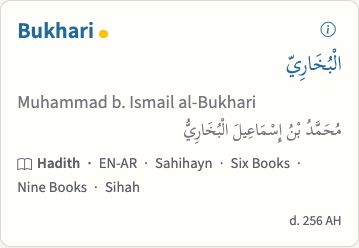
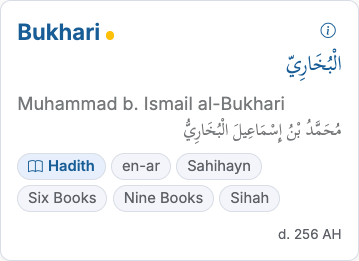
Restore rounded catalog pills and lowercase the bilingual badge

diff --git a/docs/design-system/library.html b/docs/design-system/library.html
@@ -27,7 +27,7 @@
   <section id="foundations"><h2>Foundations</h2>
     <div class="grid">
       <article><h3>Interface type</h3><div class="type-sample">Reading &amp; listening</div><label>Search settings <input type="search" placeholder="Search settings"></label><p>Inter is the proposed interface face. Its variable weights run from 100 (Thin) to 900 (Black). Use muted 300 for empty-field hints and the search launcher, 400 for entered text, and 700 for bold emphasis. Settings and Books share <code>ux-page-title</code>, which follows the responsive site heading scale at weight 650. Their titles measure 30.96 px at 1280 px and 25 px at 390 px with the default text size. Body text uses 1 rem with 1.5 line height. Use weight 600 for control labels.</p></article>
-      <article><h3>Color &amp; focus</h3><div class="palette"><span class="accent">Action</span><span class="text">Text</span><span class="muted">Summary</span><span class="inset">Inset</span></div><p>Lighter Ivory treatment (under review). Use a solid, near-neutral off-white canvas (#FAFAF9) throughout the page. White cards and Midnight headings keep text crisp. Use blue for the current collection and open settings panels. Use ink for text, blue for links and switches, and Midnight indigo for primary actions. Show a two-pixel accent outline on keyboard focus. <a href="../../public/static/css/ivory.css">Palette tokens</a>.</p></article>
+      <article><h3>Color &amp; focus</h3><div class="palette"><span class="accent">Action</span><span class="text">Text</span><span class="muted">Summary</span><span class="inset">Inset</span></div><p>Lighter Ivory canvas. Use a solid, near-neutral off-white canvas (#FAFAF9) throughout the page. White cards and Midnight headings keep text crisp. Use blue for the current collection and open settings panels. Use ink for text, blue for links and switches, and Midnight indigo for primary actions. Show a two-pixel accent outline on keyboard focus. <a href="../../public/static/css/ivory.css">Palette tokens</a>.</p></article>
     </div>
     <p>Load the <a href="../../public/static/css/ux-foundations.css">foundation stylesheet</a> and apply <code>ux-system</code> to the adopting page container. Its tokens inherit the active site theme. Quran specimens retain their script-specific fonts. Prose and Markdown typography will enter the library with the first finalized reading or authoring page.</p>
   </section>
@@ -40,7 +40,7 @@
   </section>
   <section id="catalog"><h2>Book discovery</h2><p>The <code>/books</code> catalog uses the Settings hierarchy. Use the shared interface font for collection and group headings, catalog navigation and the right-hand index. Arabic and English book titles share an item size. Kitab retains its own line height for Arabic marks. A narrow Midnight underline identifies the current desktop collection. Book links use the Ivory accent.</p><div class="grid">
       <article><h3>Collection navigation &amp; local filters</h3><img src="catalog/collections.png" alt="Six collection names with a Midnight underline under Hadith"><img src="catalog/filters.png" alt="Search books with expanded size and collection filters"><p>The header presents six text links on desktop and a native collection picker on phones. Place local search and filters at the top of the Books right rail. Below 992 px, the Filter books disclosure exposes the same controls. Group size, language, and classification choices under Filters. Summarize active choices on the closed disclosure. Returning from a book restores the search and filters for that history entry.</p></article>
-      <article><h3>Bilingual catalog card</h3><img src="catalog/book.png" alt="Book title and author in English and Arabic with classification and details controls"><p>Pair the type label with its decorative navigation icon. Hadith and Mushaf use the open book, Tafsir the half book, translations the translation symbol, History &amp; Sirah the Madani artwork, and Sharḥ the annotated journal. Show type, language and classifications as a wrapping text line with dot separators. Reserve button styling for actions. Keep the canonical title link separate from the details button. Use card width to position paired titles. Below 24 rem of usable width, Arabic sits on a right-aligned row beneath English, aligned with the Arabic author. Wider cards use separate columns on one row. Give Arabic its own direction and typeface, and keep source classifications and dates attached to their book. Escape closes details and returns focus to its opener.</p></article>
+      <article><h3>Bilingual catalog card</h3><img src="catalog/book.png" alt="Book title and author in English and Arabic with classification and details controls"><p>Pair the type label with its decorative navigation icon. Hadith and Mushaf use the open book, Tafsir the half book, translations the translation symbol, History &amp; Sirah the Madani artwork, and Sharḥ the annotated journal. Show type, language and classifications as individual rounded pills that wrap between labels. Tint the type pill blue and use a neutral fill for language and groups. The bilingual badge reads en-ar. Reserve button styling for actions. Keep the canonical title link separate from the details button. Use card width to position paired titles. Below 24 rem of usable width, Arabic sits on a right-aligned row beneath English, aligned with the Arabic author. Wider cards use separate columns on one row. Give Arabic its own direction and typeface, and keep source classifications and dates attached to their book. Escape closes details and returns focus to its opener.</p></article>
       <article><h3>Collection index</h3><img src="catalog/rail.png" alt="Sahihayn rail heading and its three book links"><p>Use mixed-case sans-serif navigation in the desktop rail. Set the collection name above the semibold group labels, with regular-weight book links beneath each group.</p></article>
     </div></section>
   <section id="choices"><h2>Choices &amp; preferences</h2>

diff --git a/public/static/css/books.css b/public/static/css/books.css
@@ -63,10 +63,9 @@
   .catalog-collection-picker select { min-height: 44px; max-width: 70%; border: 0; color: var(--bs-emphasis-color); background: var(--bs-body-bg); font: 600 1rem/1.4 var(--ux-font-ui); }
 }
 
-.book-catalog-classifications { display: flex; flex-wrap: wrap; align-items: baseline; gap: .1rem .4rem; color: var(--bs-secondary-color); font-size: var(--ux-caption-size, .82rem); line-height: 1.5; }
-.book-catalog-pill { max-width: 100%; overflow-wrap: anywhere; }
-.book-catalog-type-pill { font-weight: 600; }
-.book-catalog-pill:not(:last-child)::after { content: "·" / ""; margin-inline-start: .4rem; }
+.book-catalog-classifications { align-items: center; gap: .3rem; }
+.book-catalog-pill { padding: .12rem .55rem; font-size: var(--ux-caption-size); background: var(--ivory-inset, var(--bs-tertiary-bg)); }
+.book-catalog-type-pill { font-weight: 600; color: var(--ivory-accent, var(--c-accent)); background: var(--ivory-selected, var(--c-primary-soft-08)); }
 .book-catalog-summary .tafsir-book-meta { font-size: 1rem; }
 
 .book-catalog-type-pill .app-menu-icon { width: 1em; height: 1em; font-size: 1em; line-height: 1; margin: 0 .35em 0 0; vertical-align: -.1em; }

diff --git a/spec/booksRouteCache.spec.js b/spec/booksRouteCache.spec.js
@@ -85,7 +85,7 @@ describe('books catalog performance path', () => {
     jest.spyOn(Utils, 'indexCachedItem').mockResolvedValue(undefined);
     jest.spyOn(Utils, 'sendCachedHtml').mockReturnValue(true);
     jest.spyOn(ejs, 'renderFile').mockImplementation(async (_path, locals) => {
-      expect(locals.books[0].catalog_language_badge).toBe('EN-AR');
+      expect(locals.books[0].catalog_language_badge).toBe('en-ar');
       return '<html>books</html>';
     });
     jest.spyOn(Index, 'distinctTermsFromQuery').mockResolvedValue(['bukhari']);
@@ -121,7 +121,7 @@ describe('books catalog performance path', () => {
     await routeHandler()(req, res, jest.fn());
 
     expect(global.query).toHaveBeenCalledTimes(1);
-    expect(res.render.mock.calls[0][1].books[0].catalog_language_badge).toBe('EN-AR');
+    expect(res.render.mock.calls[0][1].books[0].catalog_language_badge).toBe('en-ar');
     expect(Utils.cachedTextPathForRead).not.toHaveBeenCalled();
   });
   test.each(['hadith', 'translation', 'tafsir', 'sharh', 'history', 'mushaf'])('type URL ?%s never reuses the default catalog cache', async type => {

diff --git a/public/static/css/style.css b/public/static/css/style.css
@@ -13747,12 +13747,12 @@ main.book-catalog-page:not(.ux-system) .tafsir-book-title-line :lang(ar) {
 .book-catalog-page [data-book-catalog-group-filter=""],
 .book-catalog-page [data-tafsir-group-filter=""] { flex: 0 0 auto; }
 .book-catalog-size-filters .btn { font-size: .75rem; border-radius: .25rem; }
-:where(body:not(.books-beta)) .book-catalog-pill {
+.book-catalog-pill {
 	display: inline-block; max-width: 100%; padding: .1rem .4rem;
 	border: 1px solid var(--bs-border-color); border-radius: 1rem;
 	font-size: .65rem; line-height: 1.4; color: var(--bs-secondary-color); overflow-wrap: anywhere;
 }
-:where(body:not(.books-beta)) .book-catalog-type-pill { color: var(--c-accent); background: var(--c-primary-soft-08); }
+.book-catalog-type-pill { color: var(--c-accent); background: var(--c-primary-soft-08); }
 .book-catalog-summary .tafsir-book-title-pair,
 .book-catalog-summary .tafsir-book-meta { grid-template-columns: minmax(0, 1fr); gap: .15rem; }
 .book-catalog-summary .tafsir-book-title-pair { grid-template-columns: minmax(0, 1fr) auto; align-items: baseline; }

diff --git a/spec/sharhBookPage.spec.js b/spec/sharhBookPage.spec.js
@@ -52,7 +52,7 @@ test.each([false, true])('catalog rows share tafsir styling and inline editors (
  const $ = cheerio.load(html);
  expect($('.tafsir-book-row')).toHaveLength(1);
  expect($('.tafsir-book-title-pair a').first().attr('href')).toBe('/sharh/malik-istidhkar');
- expect($('.book-language-badge').text()).toBe('EN-AR');
+ expect($('.book-language-badge').text()).toBe('en-ar');
  expect($('.book-catalog-card').attr('data-book-catalog-filter')).toContain('Ibn Abd al-Barr');
  expect($('[data-prop="book.name_en"]')).toHaveLength(editMode ? 1 : 0);
  expect($('[data-prop="book.description"]')).toHaveLength(editMode ? 1 : 0);

diff --git a/public/static/js/book-catalog.js b/public/static/js/book-catalog.js
@@ -204,6 +204,8 @@
       var languageBadge = details.querySelector('.book-language-badge');
       var language = languageBadge ? languageBadge.textContent.trim()
         : (card.dataset.bookCatalogLanguage || card.dataset.tafsirLanguage || '').trim().toUpperCase().replace(/\s+/g, '-');
+      // Cached catalog markup can still contain the older uppercase badge.
+      if (language === 'EN-AR') language = 'en-ar';
       if (language) {
         var languagePill = document.createElement('span');
         languagePill.className = 'book-catalog-pill book-catalog-language-pill';

diff --git a/spec/tafsirBookCatalogFilters.spec.js b/spec/tafsirBookCatalogFilters.spec.js
@@ -24,7 +24,7 @@ describe('tafsir book catalog filters', () => {
 	test('shows one bilingual card with a language badge and inclusive language filters', () => {
 		expect(template).toContain('Tafsir.uniqueCarouselTafsirs(tafsirs || [])');
 		expect(template).toContain('book-language-badge');
-		expect(template).toContain("return 'EN-AR'");
+		expect(template).toContain("return 'en-ar'");
 		expect(template).toContain("split(/\\s+/).indexOf(activeLanguage) >= 0");
 	});
 });

diff --git a/routes/books.js b/routes/books.js
@@ -56,7 +56,7 @@ function applyContentLanguageBadges(books, englishBooks, key) {
   const hasEnglish = new Set(englishBooks.map(normalize));
   return books.map(book => ({
     ...book,
-    catalog_language_badge: hasEnglish.has(normalize(book[key])) ? 'EN-AR' : ((book.lang || 'ar').toLowerCase() === 'en' ? 'EN' : 'AR')
+    catalog_language_badge: hasEnglish.has(normalize(book[key])) ? 'en-ar' : ((book.lang || 'ar').toLowerCase() === 'en' ? 'EN' : 'AR')
   }));
 }
 
